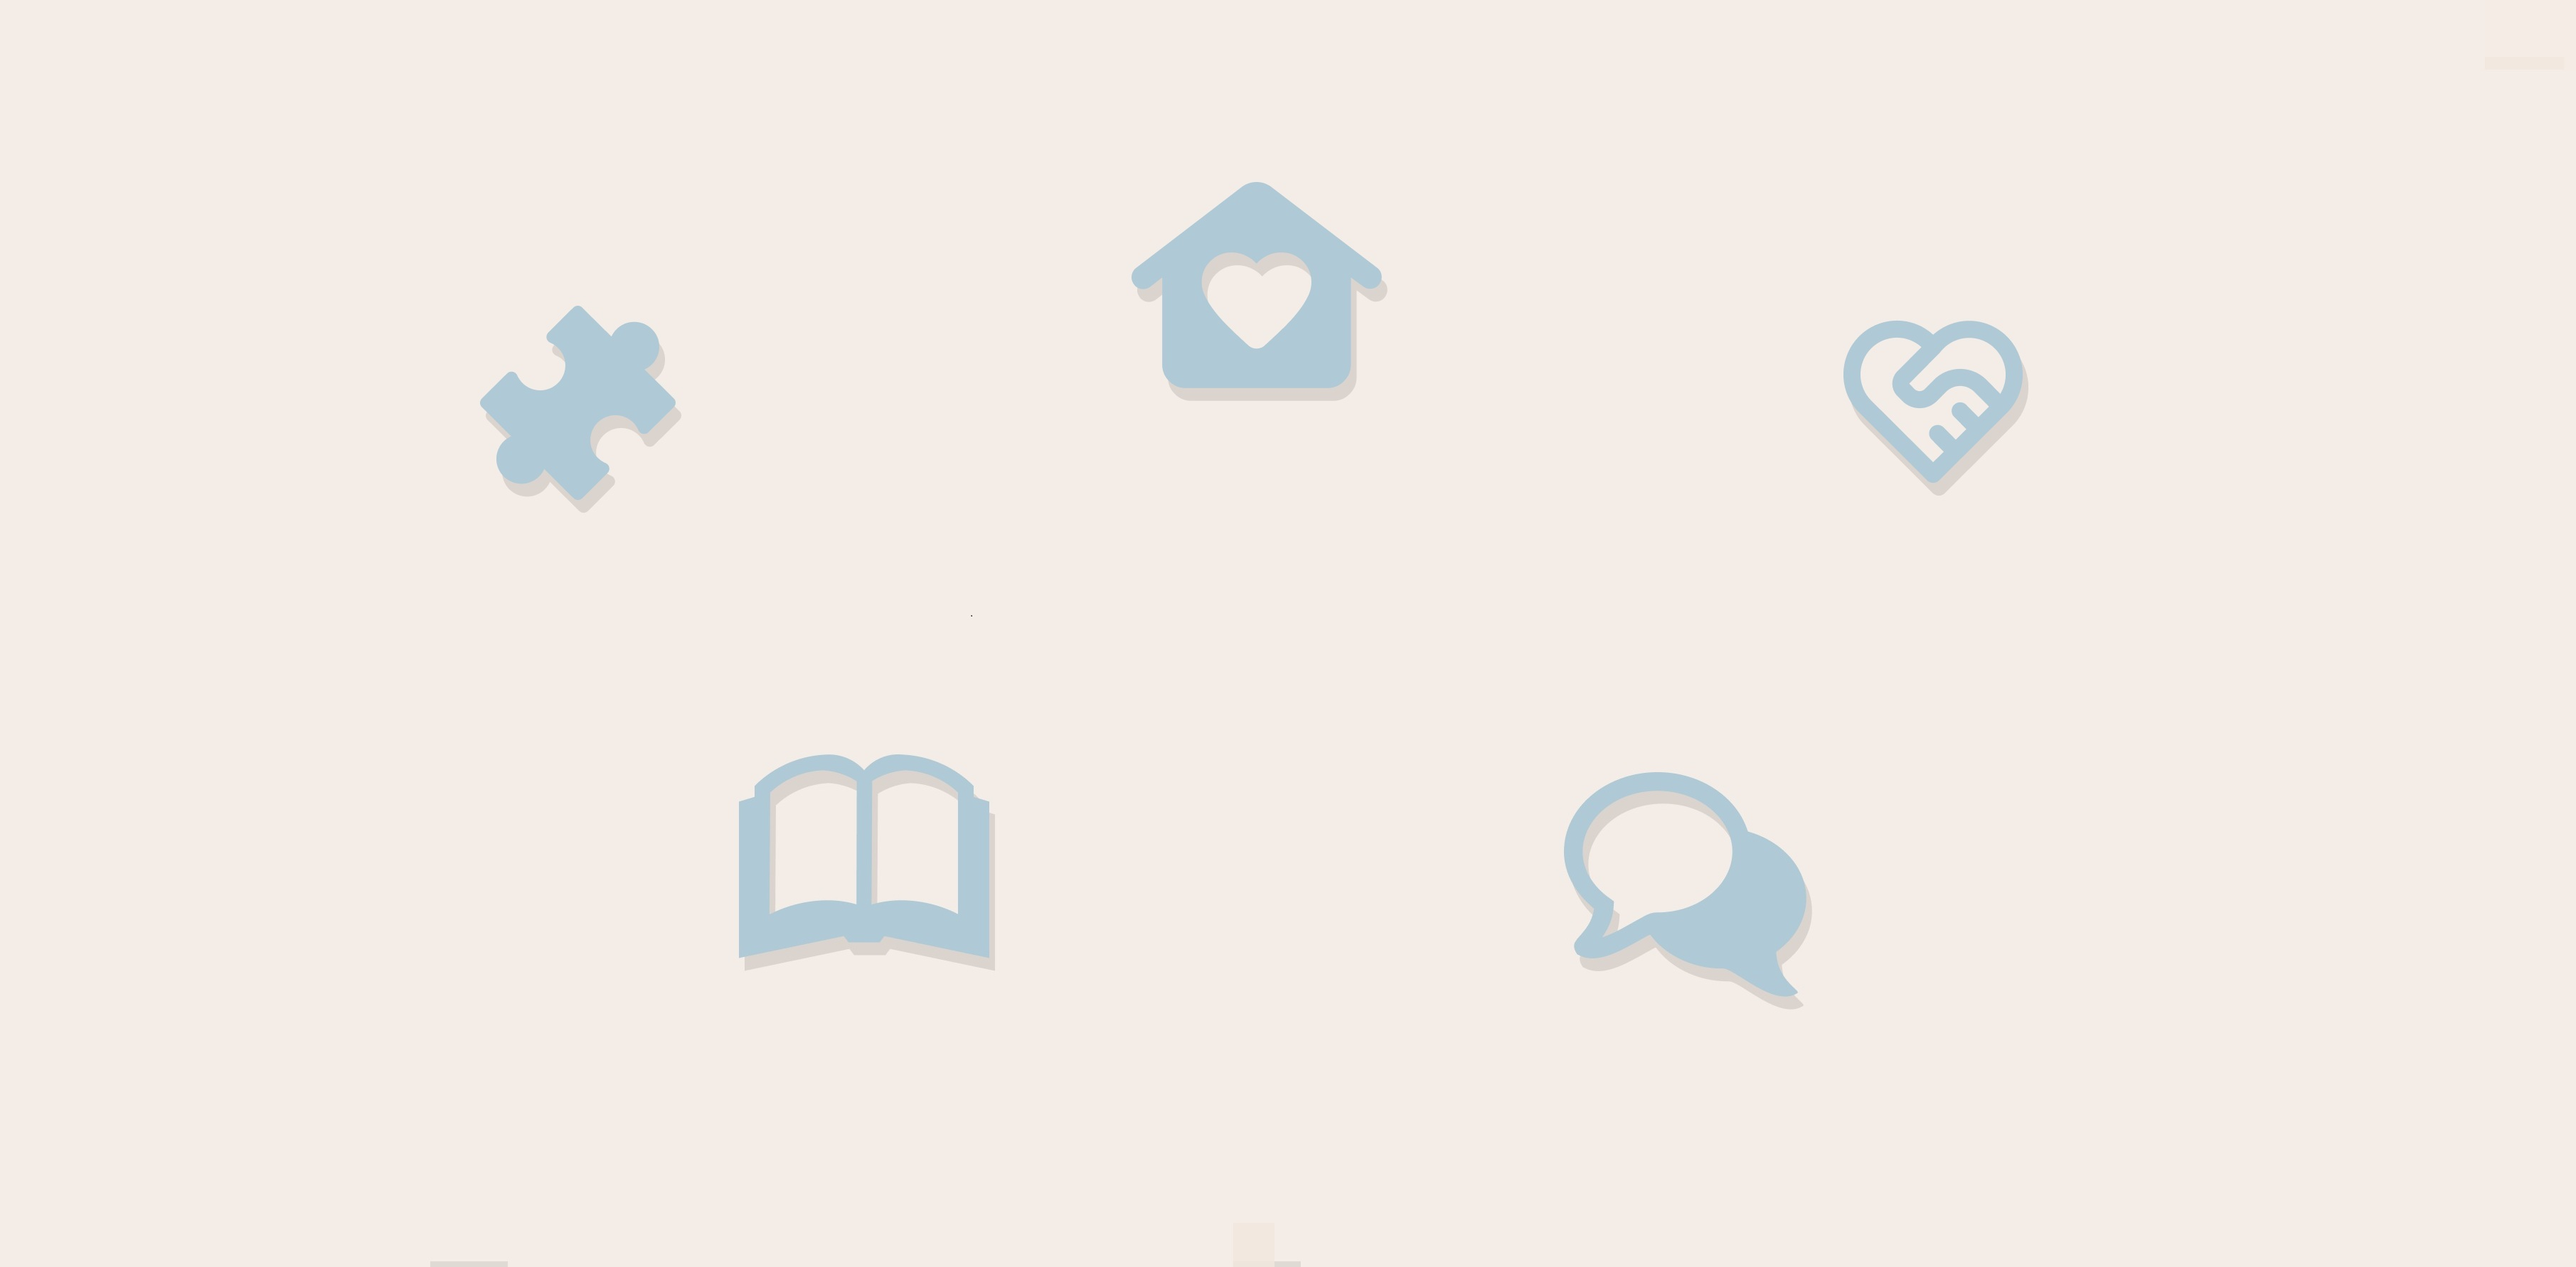
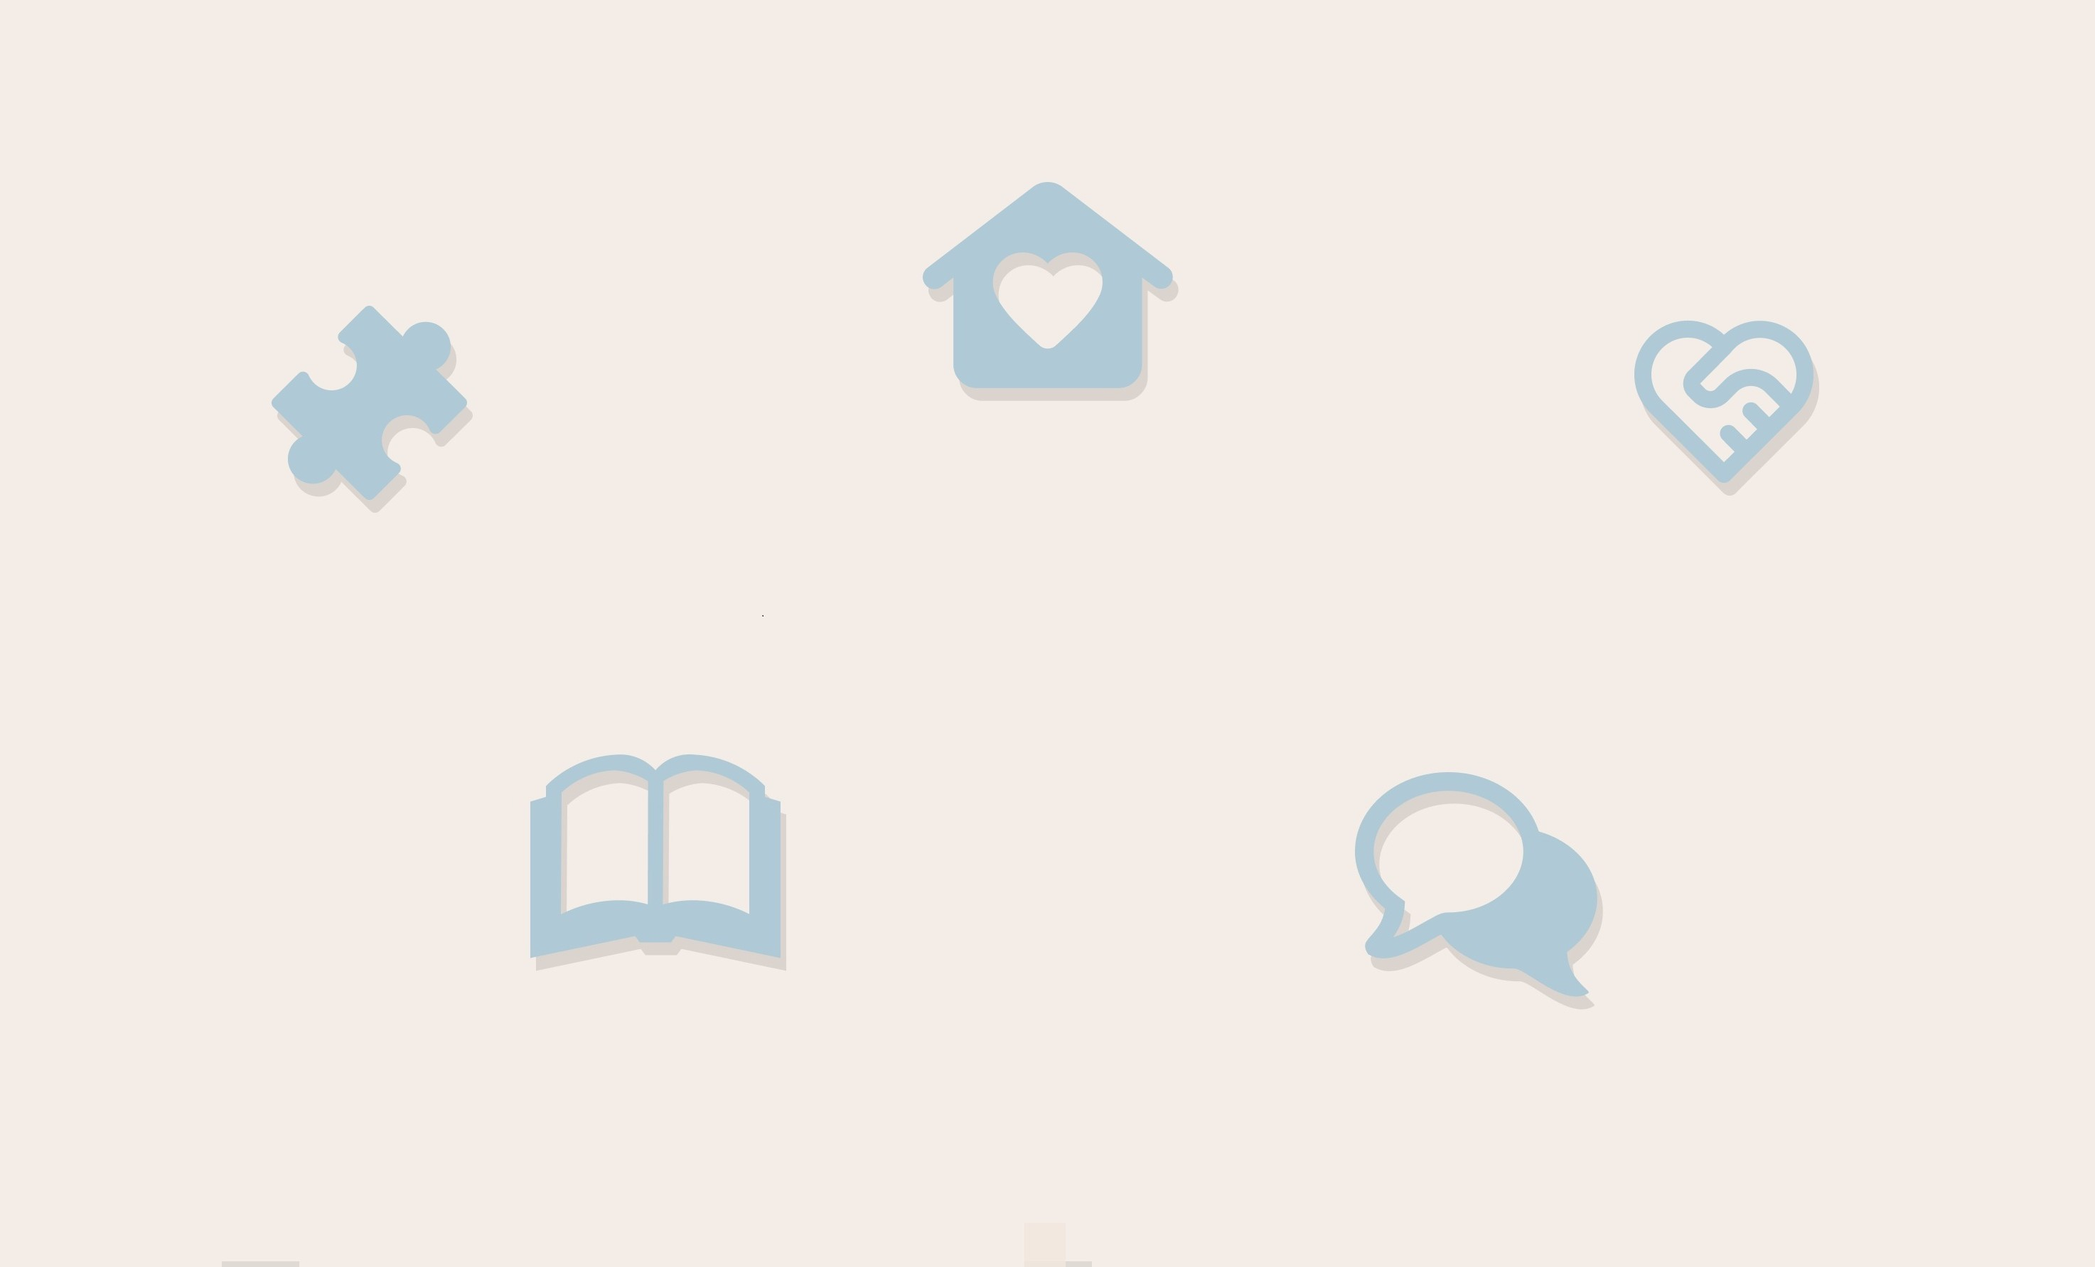
commit

diff --git a/src/components/EditModal.tsx b/src/components/EditModal.tsx
@@ -13,24 +13,29 @@ interface EditModalProps {
   onClose: () => void;
   title: string;
   type: "image" | "file";
-  initialValue: string[]; // pole, ale len 1 súbor sa použije
+  localStorageKey: string;
+  initialValue?: string[];
   onSave: (files: string[]) => void;
 }
 
-const EditModal = ({ isOpen, onClose, title, type, initialValue, onSave }: EditModalProps) => {
-  const [file, setFile] = useState<string>(initialValue?.[0] || "");
+const EditModal = ({ isOpen, onClose, title, type, localStorageKey, initialValue = [], onSave }: EditModalProps) => {
+  const [file, setFile] = useState<string>(initialValue[0] || "");
   const fileInputRef = useRef<HTMLInputElement>(null);
 
-  // Pri otvorení modalu nastavíme aktuálnu hodnotu
+  // načítanie zo storage pri mount
   useEffect(() => {
-    setFile(initialValue?.[0] || "");
-  }, [initialValue, isOpen]);
+    const savedFile = localStorage.getItem(localStorageKey);
+    if (savedFile) setFile(savedFile);
+    else setFile(initialValue[0] || "");
+  }, [initialValue, isOpen, localStorageKey]);
 
   const handleDrop = (e: React.DragEvent) => {
     e.preventDefault();
     const droppedFile = e.dataTransfer.files[0];
     if (droppedFile) {
-      setFile(URL.createObjectURL(droppedFile)); // nahradí predchádzajúci
+      const url = URL.createObjectURL(droppedFile);
+      setFile(url);
+      localStorage.setItem(localStorageKey, url); 
     }
   };
 
@@ -55,10 +60,13 @@ const EditModal = ({ isOpen, onClose, title, type, initialValue, onSave }: EditM
             className="hidden"
             onChange={(e) => {
               const newFile = e.target.files?.[0];
-              if (newFile) setFile(URL.createObjectURL(newFile));
+              if (newFile) {
+                const url = URL.createObjectURL(newFile);
+                setFile(url);
+                localStorage.setItem(localStorageKey, url); 
+              }
             }}
           />
-
           <p className="text-sm text-gray-500 mt-2">
             Presuň súbor sem alebo klikni pre výber
           </p>
@@ -80,7 +88,10 @@ const EditModal = ({ isOpen, onClose, title, type, initialValue, onSave }: EditM
           </Button>
           <Button
             onClick={() => {
-              if (file) onSave([file]); // uloží iba aktuálny
+              if (file) {
+                onSave([file]);
+                localStorage.setItem(localStorageKey, file); // uloženie pri save
+              }
               onClose();
             }}
           >
